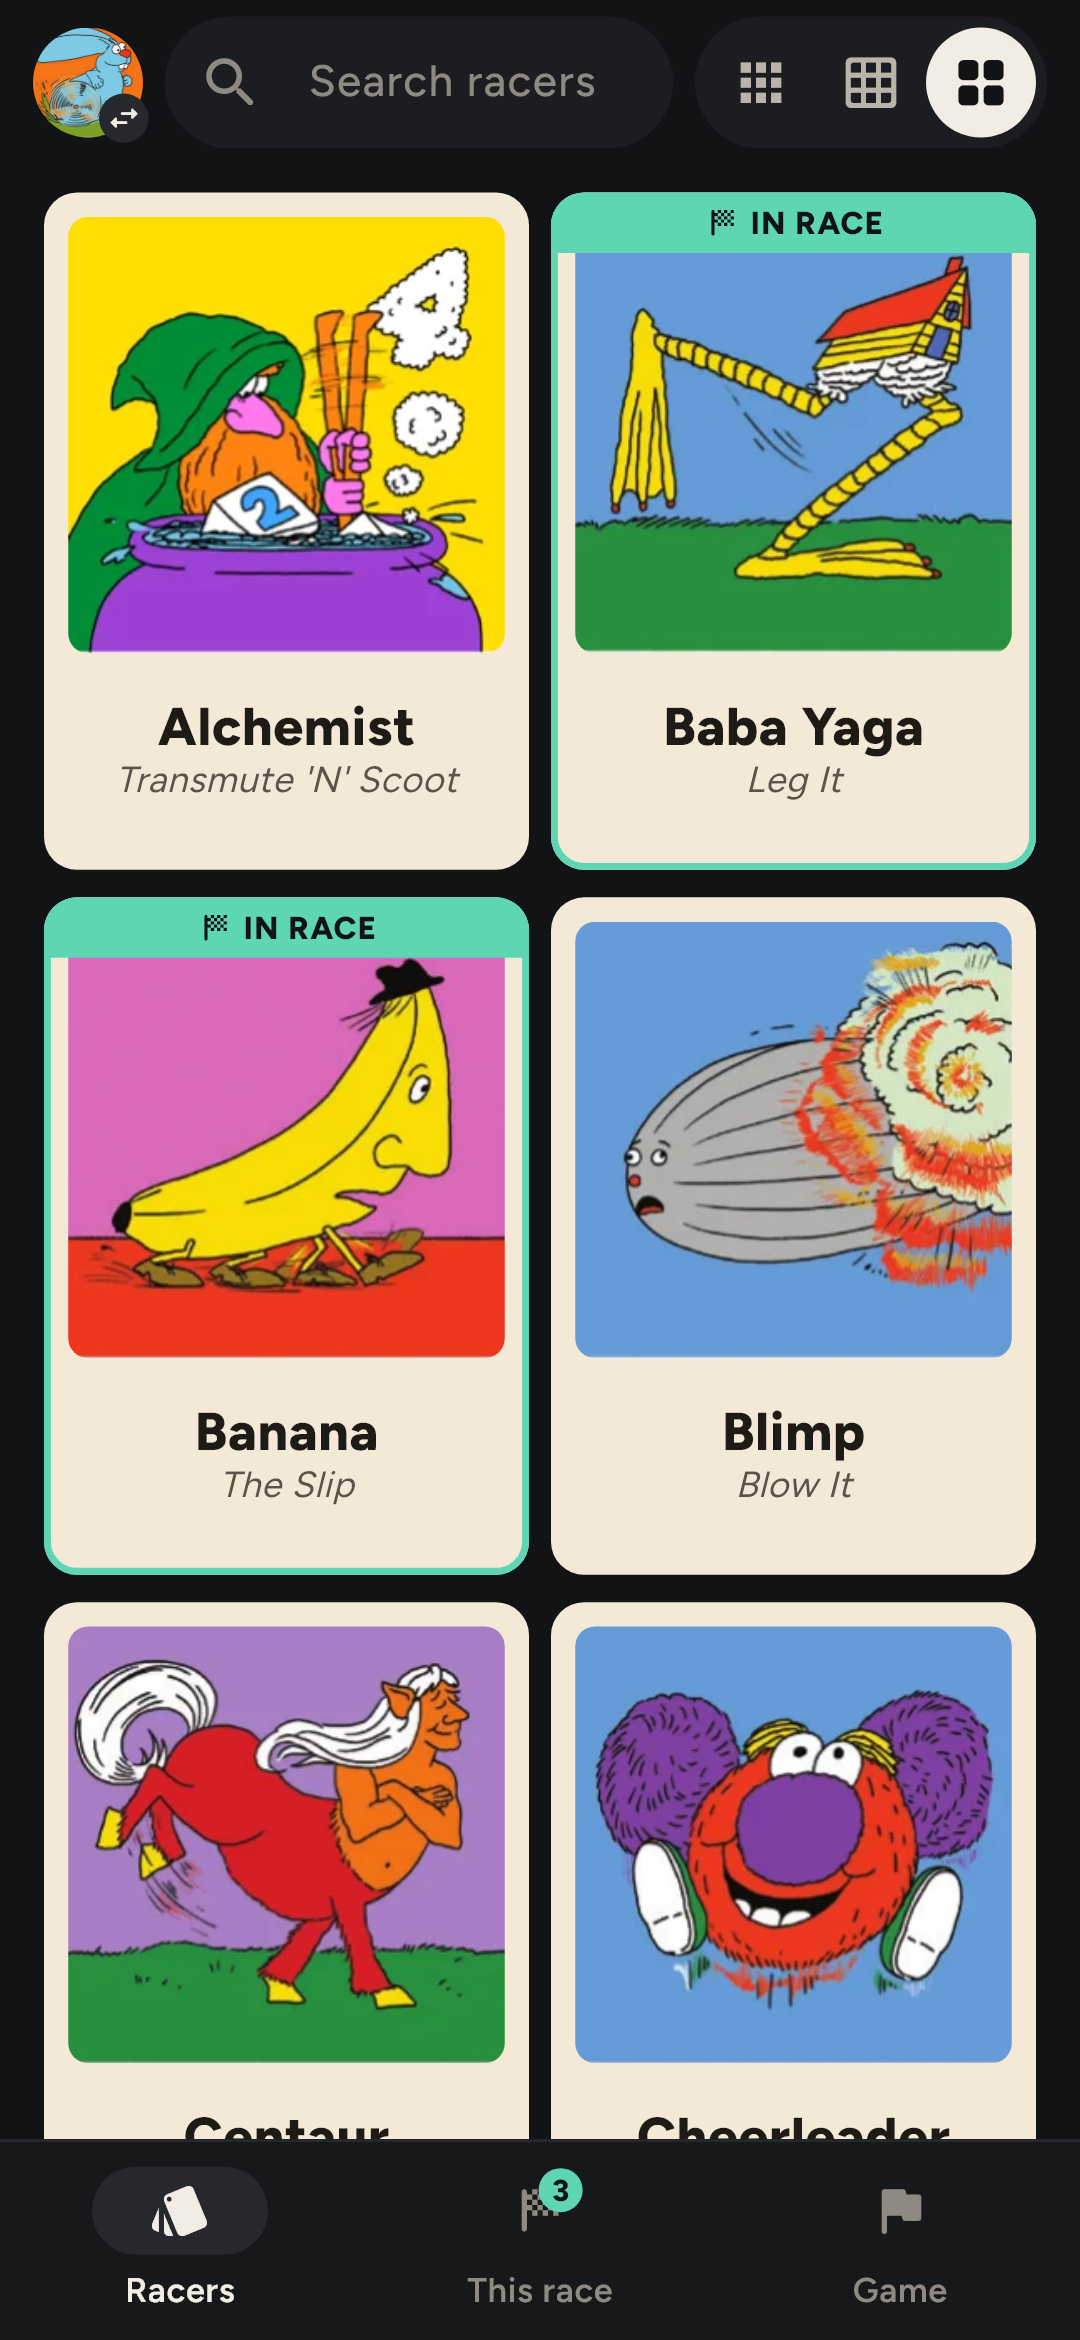
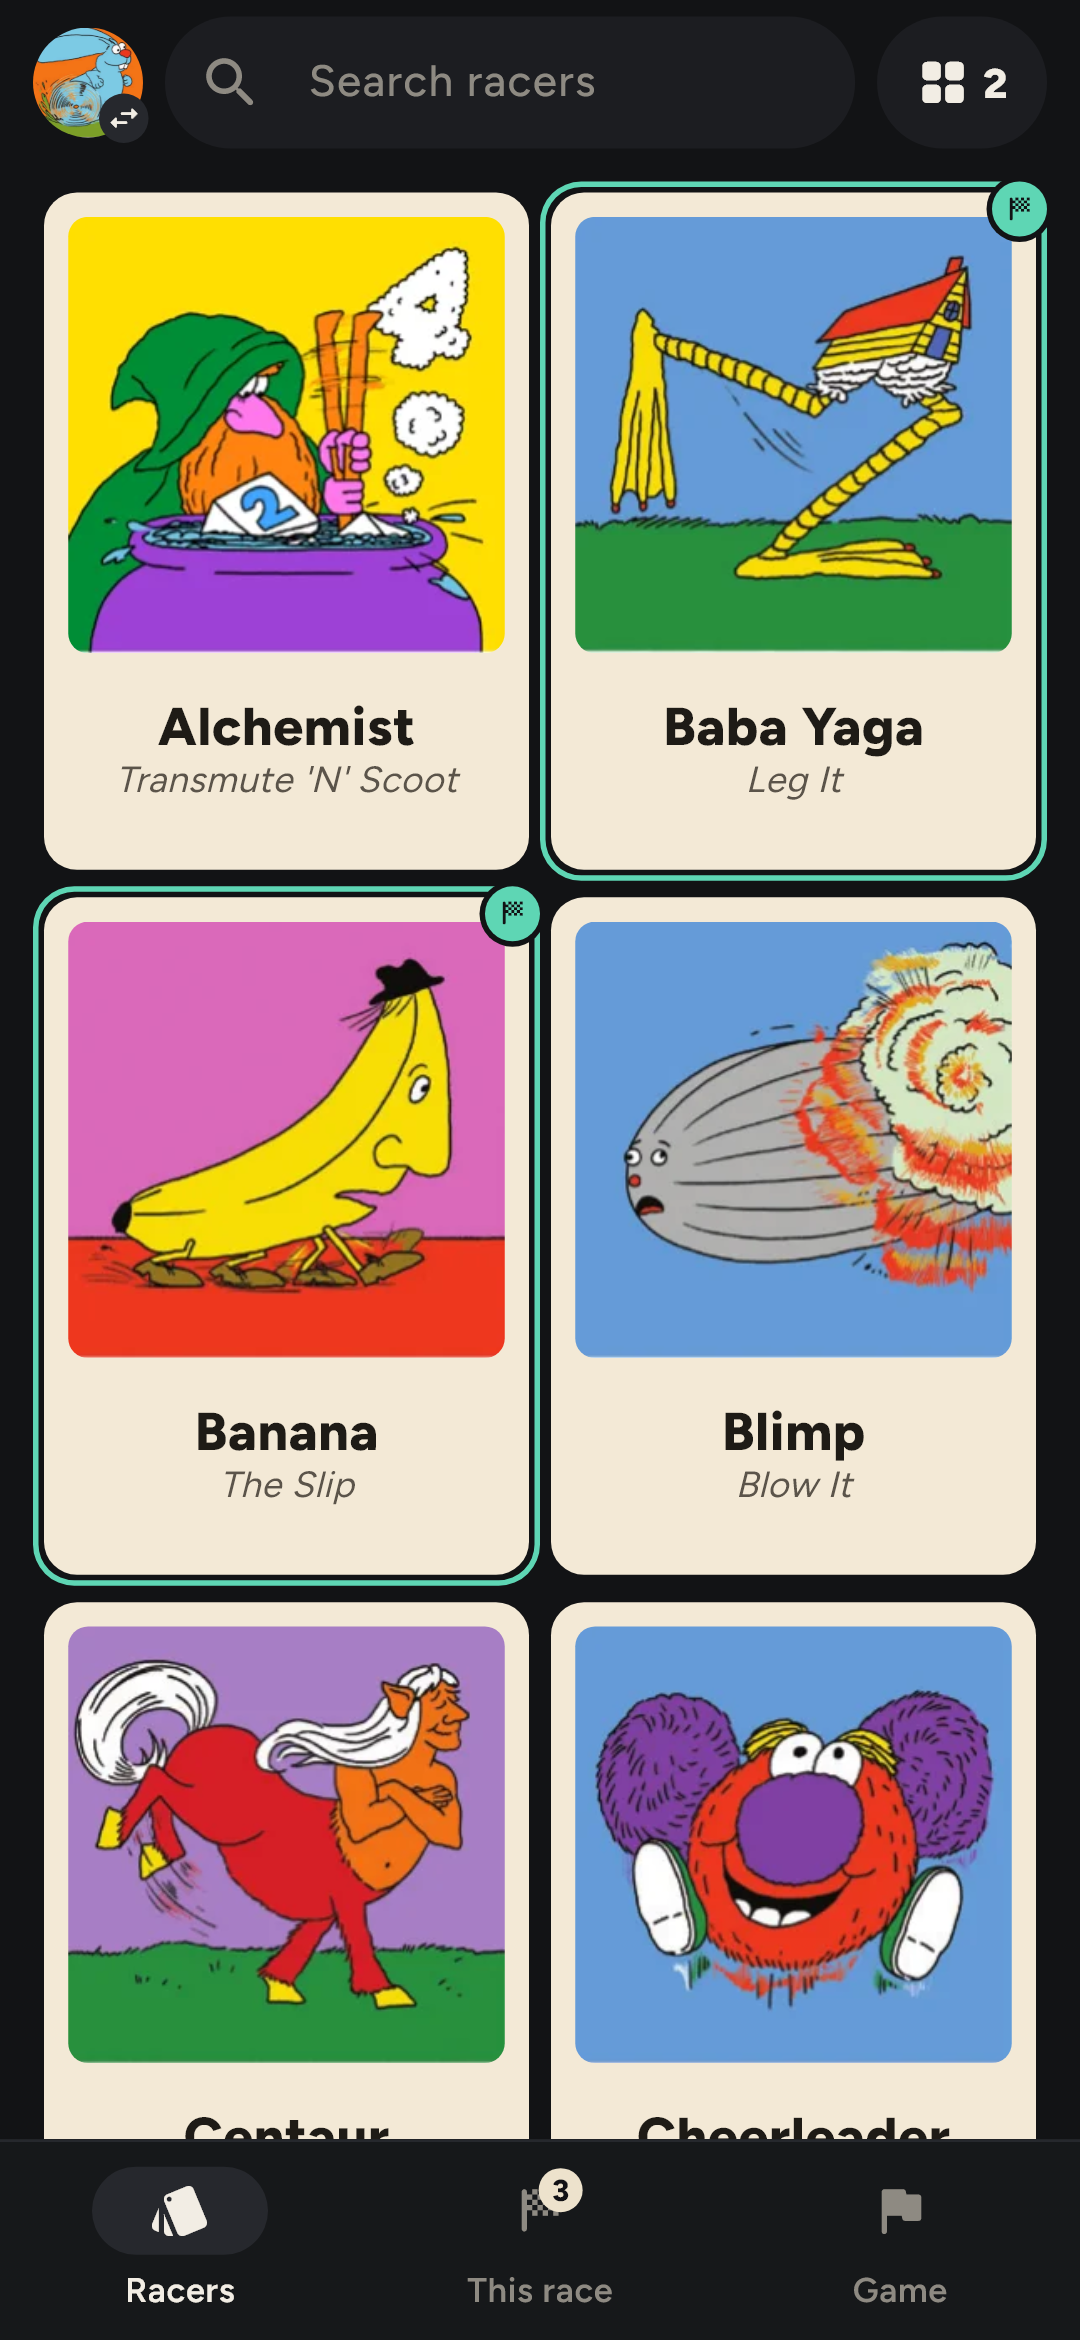
docs: session notes for the UI/UX pass, screenshots regenerated, Vale module 1.1.1

Changed region(s): [[0.0306, 0.0, 0.9778, 0.6863], [0.4889, 0.9047, 0.55, 0.9671]]

diff --git a/test/games/vale_module_test.dart b/test/games/vale_module_test.dart
@@ -46,7 +46,7 @@ void main() {
       }
       expect(File('modules/$valeId/${m.manifest.icon}').existsSync(), isTrue);
       expect(m.manifest.id, valeId);
-      expect(m.manifest.version, '1.1.0');
+      expect(m.manifest.version, '1.1.1');
     });
 
     test('small stone counts are repeated icons, like the printed cards', () async {

diff --git a/docs/superpowers/notes/2026-10-18-session.md b/docs/superpowers/notes/2026-10-18-session.md
@@ -10,7 +10,7 @@ Where we stopped, so the next session (UI/UX smoothing) can start straight away.
 | Tablet columns, lane Clear + Undo, cost highlight, flowing grid, Settings screen | merged into `master` (716b5db) |
 | Everything in "Today, on `rail-highlight`" below | branch `rail-highlight`, committed (f3ae41f), **not merged** |
 | `TableHelper.apk` | built from `master` 716b5db (does **not** include the `rail-highlight` work) |
-| Vale of Eternity module | `modules/vale-of-eternity`, now **1.1.0** (needs re-publishing to the private repo) |
+| Vale of Eternity module | `modules/vale-of-eternity`, now **1.1.1** (needs re-publishing to the private repo) |
 | Tests | 189 passing (`flutter test`), `flutter analyze` clean |
 | Screenshots | `design/screenshots/01–32` regenerated (`flutter test tool/screenshot_test.dart`) |
 | Web preview | `flutter build web --release` + `dart run tool/pack.dart modules build/web/modules --unpacked` |
@@ -128,3 +128,37 @@ No git remote is configured, so nothing is pushed anywhere.
 | 28 | Settings |
 | 29–30 | Hae-tae sheet: details hidden / open |
 | 31–32 | Hae-tae mid-flick: to Hand / to Table |
+
+## Day 2, evening (2026-10-18): UI/UX smoothing from `design/HANDOFF.md`
+
+All on branch `rail-highlight` (still **not merged**), six commits after f3ae41f. Spec was
+`design/HANDOFF.md` (the digest of the "Table Helper Review v2" mockups; the `.dc.html`
+itself is not in the repo). Every "must" item is done; the "Smaller items (not yet
+decided)" list at the end of HANDOFF is untouched.
+
+| Commit | What |
+|---|---|
+| d0c1248 | Flick feedback on the **slot** behind the panel (tint 10→40 %, solid past ⅓ width, zone icon + name in the revealed strip, check past the threshold, haptic tick, fly-out, "Added to …" hold, close). `sheet.details.hint` label next to the chevron (spec, AI instructions, schema, validator; Vale = "Interactions"). Neutral **accent** colour (cream / ink) in the palette; CJK system fonts as fallbacks. |
+| a31ef04 | **Rail**: 26 dp, full height, fixed slots for the range, dots for absent costs, scrub bubble "Cost N", picked = filled / in-view = ring. **View pill** in the top bar: density cycle 4→3→2 + grouped/flowing switch; dock toggle removed; Vale hint "Search cards". |
+| 3da3b63 | Tiles: corner **zone chip** + 2 dp outline, no band; names wrap to 2 lines. **Grouped**: constant-padding containers, pill + rule + count headers, accent highlight. **Flowing**: ruler strips with number pills, continuous selection band, rail jump puts the ruler at the top (no more peeking row). |
+| 8641c8a | **My cards**: sliver lanes with sticky headers, chevron by the name, Clear always present (dimmed when empty), accent snackbar "Table cleared · Undo" 5 s, 24 dp tail. |
+| 1984303 | Next button + segmented controls on the accent; "Newer installed (1.1.0)" in the Library; screenshot tool loads Noto Sans SC. |
+| (this) | Screenshots regenerated, notes, Vale module 1.1.1. |
+
+Tests: 194 passing, `flutter analyze` clean. Screenshots `01–32` regenerated.
+
+### Things to check on a phone
+- The flick: tilt, haptic tick at ⅓, the "Added to …" hold (≈200 ms at Fast).
+- Rail scrubbing with a thumb: the bubble sits left of the rail; does the 26 dp column feel wide enough?
+- Chinese text in the Magical Athlete sheet now renders in the screenshots (Noto Sans SC loaded by the tool); on Android it relies on the system font via `fontFamilyFallback`.
+- Sticky lane headers while dragging a card into a long lane.
+
+### Not done / open
+- HANDOFF "Smaller items from the review (not yet decided)": phase name ×3, checklist lip shadow, scroll-under-Next fade, "Tap again to skip" visibility, three Clear styles, IN RACE vs corner chip (the corner chip is now used everywhere, so this one is effectively done), Library casing / avatars, Settings "4 3 2" order and switch contrast (switch now uses the accent).
+- Module tint (planned) not started.
+- The grouped layout's grid is 6 dp narrower than the flowing one (the group container pads 6 dp inside the same column).
+
+### Before shipping (unchanged)
+1. Merge `rail-highlight` into `master`, `flutter test`.
+2. `flutter build apk --release --split-per-abi`, copy the arm64 APK to `TableHelper.apk`.
+3. `dart run tool/pack.dart modules <private repo checkout>` and push: Vale is now **1.1.1**.
